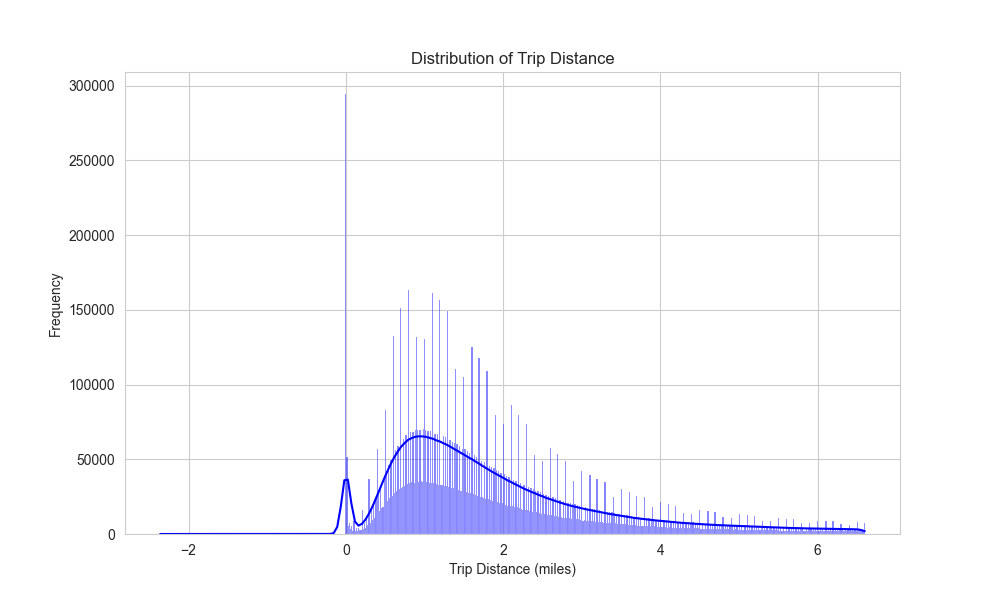
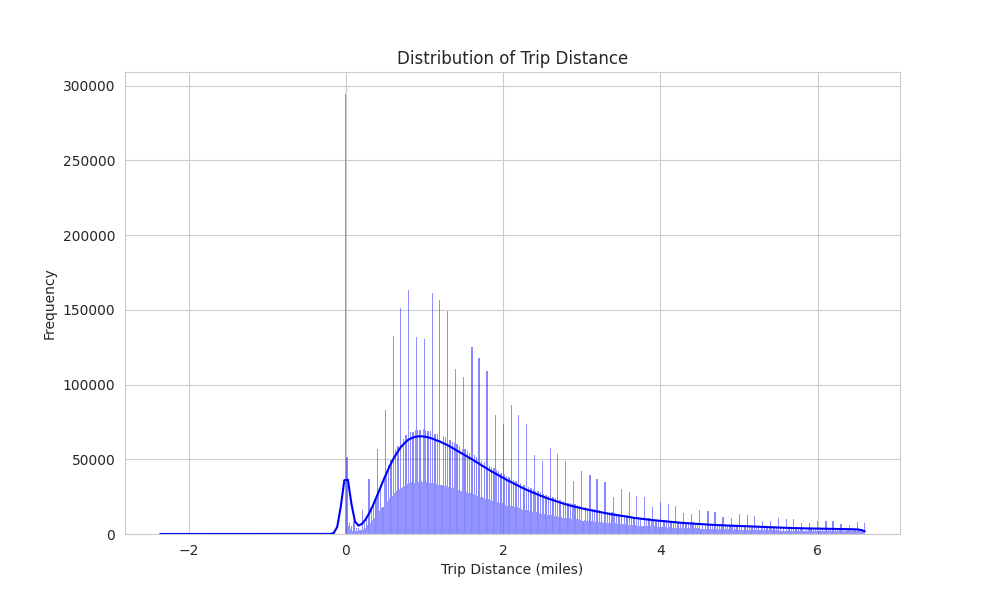
t

diff --git a/Analytical_section/Univariate_EDA/trip_dist.py b/Analytical_section/Univariate_EDA/trip_dist.py
@@ -30,6 +30,8 @@ def trip_dist(df):
     plt.title('Distribution of Trip Distance')
     plt.xlabel('Trip Distance (miles)')
     plt.ylabel('Frequency')
+    #we will have a classic background 
+    plt.style.use('classic')
     #plt.xlim(0, 50)  # ?????Limit x-axis to focus on the majority of trips
     #now we will save the plot as an image file
     plt.savefig('trip_distance_distribution.png')
